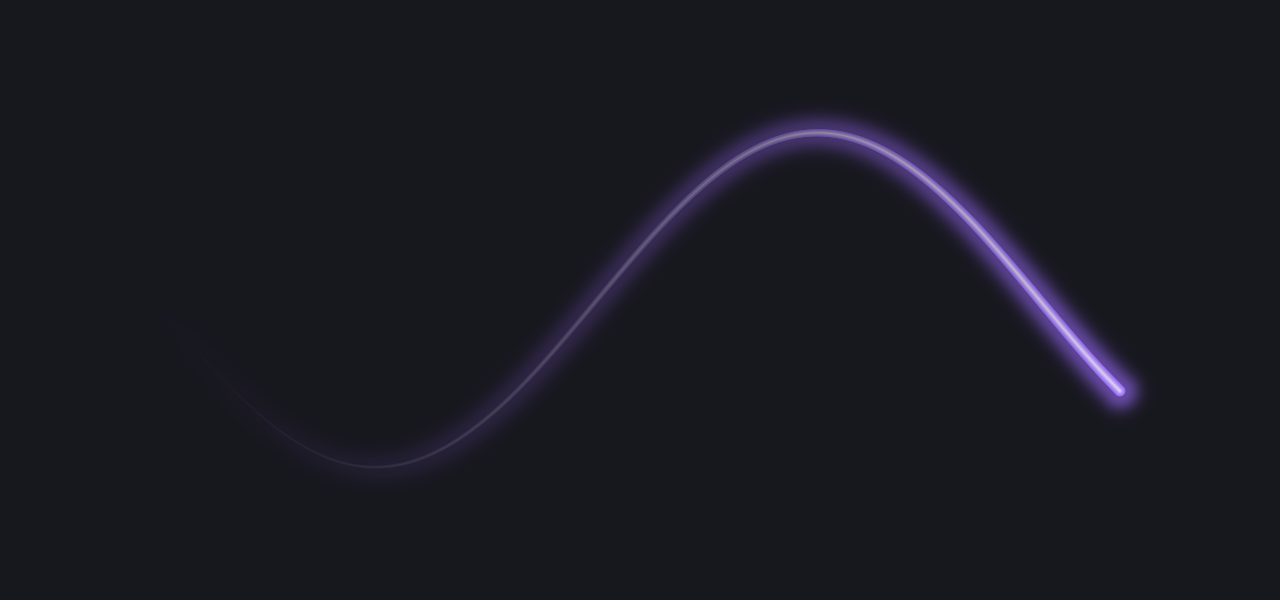
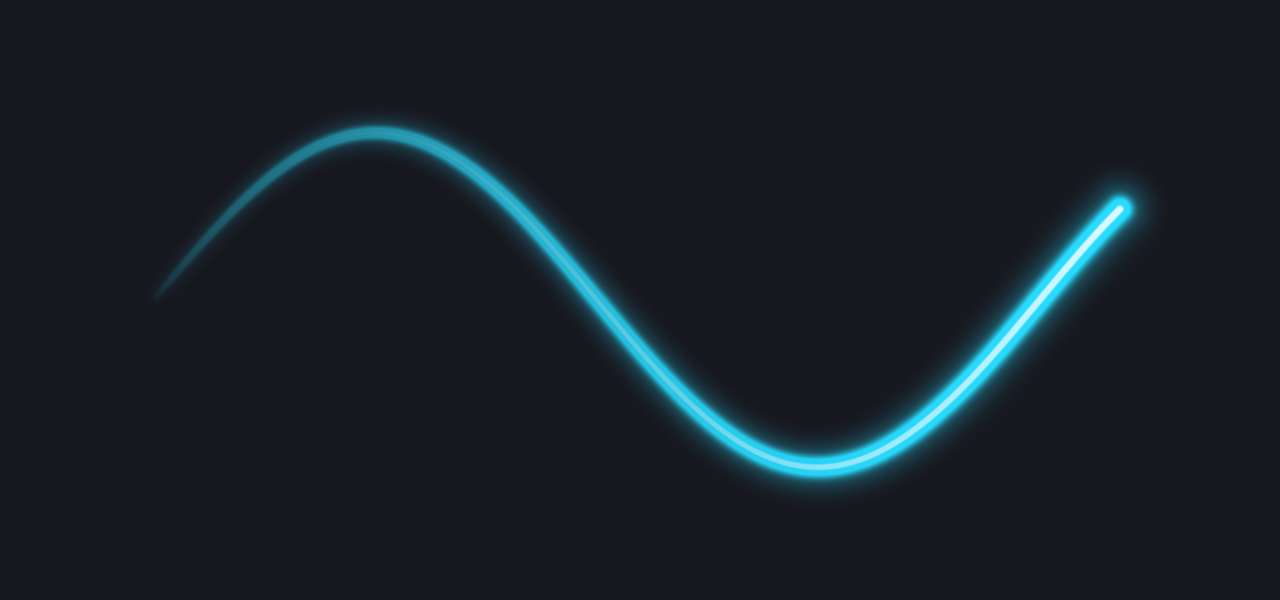
Update docs and snapshot tools for 0.2
Snapshot mode can now render the preset sheet and the settings layout,
and no longer flips images vertically. README covers the new controls.

Changed region(s): [[0.125, 0.18, 0.9062, 0.84], [0.2812, 0.75, 0.3438, 0.78]]

diff --git a/Contrail/Rendering/SnapshotRenderer.swift b/Contrail/Rendering/SnapshotRenderer.swift
@@ -1,15 +1,25 @@
 import AppKit
 import ContrailCore
+import SwiftUI
 
 /// Renders a synthetic trail to a PNG without touching the real cursor.
 ///
 ///     Contrail.app/Contents/MacOS/Contrail --snapshot out.png [--preset cyan] [--matte] [--background light|dark]
+///     Contrail.app/Contents/MacOS/Contrail --snapshot-presets out.png
+///     Contrail.app/Contents/MacOS/Contrail --snapshot-ui out.png
 ///
 /// Used to produce README images and to eyeball shader changes.
 @MainActor
 enum SnapshotRenderer {
-    static func runIfRequested() {
+    static func runIfRequested(store: SettingsStore) {
         let args = CommandLine.arguments
+        if let index = args.firstIndex(of: "--snapshot-ui"), index + 1 < args.count {
+            let ok = renderUI(store: store, to: URL(fileURLWithPath: args[index + 1]))
+            exit(ok ? 0 : 1)
+        }
+        if let index = args.firstIndex(of: "--snapshot-presets"), index + 1 < args.count {
+            exit(renderPresetSheet(to: URL(fileURLWithPath: args[index + 1])) ? 0 : 1)
+        }
         guard let index = args.firstIndex(of: "--snapshot"), index + 1 < args.count else { return }
         let output = URL(fileURLWithPath: args[index + 1])
         var settings = TrailSettings.default
@@ -19,6 +29,46 @@ enum SnapshotRenderer {
             ?? (settings.highContrast ? "light" : "dark")
         let ok = render(settings: settings.clamped(), background: background, to: output)
         exit(ok ? 0 : 1)
+    }
+
+    /// Writes the popover and Settings window layouts side by side (the live
+    /// Metal preview isn't captured). For checking layout without a screenshot.
+    static func renderUI(store: SettingsStore, to url: URL) -> Bool {
+        let glyphs = HStack(spacing: 0) {
+            ForEach([false, true], id: \.self) { dark in
+                HStack(spacing: 18) {
+                    ForEach([true, false], id: \.self) { enabled in
+                        Image(nsImage: MenuBarIcon.image(enabled: enabled))
+                            .resizable()
+                            .interpolation(.high)
+                            .frame(width: 72, height: 72)
+                            .foregroundStyle(dark ? Color.white : Color.black)
+                    }
+                }
+                .padding(12)
+                .background(dark ? Color(white: 0.15) : Color(white: 0.92))
+            }
+        }
+        let content = HStack(alignment: .top, spacing: 24) {
+            VStack(alignment: .leading, spacing: 24) {
+                MenuPopover(store: store, openSettings: {})
+                    .background(Color(nsColor: .windowBackgroundColor))
+                glyphs
+            }
+            SettingsView(store: store)
+                .background(Color(nsColor: .windowBackgroundColor))
+        }
+        .padding(24)
+        .background(Color.gray.opacity(0.3))
+        let hosting = NSHostingView(rootView: content)
+        hosting.frame = NSRect(origin: .zero, size: hosting.fittingSize)
+        let window = NSWindow(contentRect: hosting.frame, styleMask: [.borderless], backing: .buffered, defer: false)
+        window.contentView = hosting
+        hosting.layoutSubtreeIfNeeded()
+        guard let rep = hosting.bitmapImageRepForCachingDisplay(in: hosting.bounds) else { return false }
+        hosting.cacheDisplay(in: hosting.bounds, to: rep)
+        guard let data = rep.representation(using: .png, properties: [:]) else { return false }
+        return (try? data.write(to: url)) != nil
     }
 
     /// A smooth S-curve sampled the way the engine would see a fast mouse flick.
@@ -37,37 +87,73 @@ enum SnapshotRenderer {
     }
 
     static func render(settings: TrailSettings, background: String, to url: URL) -> Bool {
-        guard let renderer = TrailRenderer.shared else { return false }
-        let size = CGSize(width: 640, height: 300)
+        guard let image = renderImage(settings: settings, background: background, size: CGSize(width: 640, height: 300)) else { return false }
+        return write(image, to: url)
+    }
+
+    /// All nine presets in a 3×3 grid on a dark background.
+    static func renderPresetSheet(to url: URL) -> Bool {
+        let cell = CGSize(width: 300, height: 130)
+        let scale = 2
+        let columns = 3
+        let rows = (ColorPreset.all.count + columns - 1) / columns
+        let width = Int(cell.width) * columns * scale
+        let height = Int(cell.height) * rows * scale
+        guard let canvas = makeContext(width: width, height: height) else { return false }
+        canvas.setFillColor(darkBackground)
+        canvas.fill(CGRect(x: 0, y: 0, width: width, height: height))
+        for (index, preset) in ColorPreset.all.enumerated() {
+            var settings = TrailSettings.default
+            settings.presetID = preset.id
+            guard let image = renderImage(settings: settings, background: nil, size: cell) else { return false }
+            let column = index % columns
+            let row = rows - 1 - index / columns
+            canvas.draw(image, in: CGRect(x: column * image.width, y: row * image.height, width: image.width, height: image.height))
+        }
+        guard let image = canvas.makeImage() else { return false }
+        return write(image, to: url)
+    }
+
+    private static let darkBackground = CGColor(red: 0.07, green: 0.07, blue: 0.09, alpha: 1)
+
+    private static func makeContext(width: Int, height: Int) -> CGContext? {
+        CGContext(data: nil, width: width, height: height, bitsPerComponent: 8, bytesPerRow: 0,
+                  space: CGColorSpace(name: CGColorSpace.sRGB)!,
+                  bitmapInfo: CGBitmapInfo.byteOrder32Little.rawValue | CGImageAlphaInfo.premultipliedFirst.rawValue)
+    }
+
+    /// Renders the sample trail at 2×. `background` is "light", "dark", or nil
+    /// for a transparent image.
+    static func renderImage(settings: TrailSettings, background: String?, size: CGSize) -> CGImage? {
+        guard let renderer = TrailRenderer.shared else { return nil }
         let scale: CGFloat = 2
         let segments = sampleTrail(size: size, settings: settings)
         let uniforms = TrailUniforms(viewSize: size, origin: .zero, scale: scale, settings: settings)
         guard let texture = renderer.renderOffscreen(
             segments, uniforms: uniforms, width: Int(size.width * scale), height: Int(size.height * scale)
-        ) else { return false }
+        ) else { return nil }
 
         let width = texture.width, height = texture.height
         var pixels = [UInt8](repeating: 0, count: width * height * 4)
         texture.getBytes(&pixels, bytesPerRow: width * 4, from: MTLRegionMake2D(0, 0, width, height), mipmapLevel: 0)
 
+        // Texture row 0 is the top row, which is also how CGImage stores rows.
         let colorSpace = CGColorSpace(name: CGColorSpace.sRGB)!
         let info = CGBitmapInfo.byteOrder32Little.rawValue | CGImageAlphaInfo.premultipliedFirst.rawValue
         guard let trail = CGContext(data: &pixels, width: width, height: height, bitsPerComponent: 8,
                                     bytesPerRow: width * 4, space: colorSpace, bitmapInfo: info)?.makeImage(),
-              let canvas = CGContext(data: nil, width: width, height: height, bitsPerComponent: 8,
-                                     bytesPerRow: 0, space: colorSpace, bitmapInfo: info) else { return false }
-        let bg = background == "light" ? CGColor(red: 1, green: 1, blue: 1, alpha: 1)
-                                       : CGColor(red: 0.07, green: 0.07, blue: 0.09, alpha: 1)
-        canvas.setFillColor(bg)
-        canvas.fill(CGRect(x: 0, y: 0, width: width, height: height))
-        // Metal textures are top-left origin; flip into CoreGraphics space.
-        canvas.translateBy(x: 0, y: CGFloat(height))
-        canvas.scaleBy(x: 1, y: -1)
+              let canvas = makeContext(width: width, height: height) else { return nil }
+        if let background {
+            canvas.setFillColor(background == "light" ? CGColor(red: 1, green: 1, blue: 1, alpha: 1) : darkBackground)
+            canvas.fill(CGRect(x: 0, y: 0, width: width, height: height))
+        }
         canvas.draw(trail, in: CGRect(x: 0, y: 0, width: width, height: height))
-        guard let image = canvas.makeImage() else { return false }
+        return canvas.makeImage()
+    }
+
+    private static func write(_ image: CGImage, to url: URL) -> Bool {
         let rep = NSBitmapImageRep(cgImage: image)
         guard let data = rep.representation(using: .png, properties: [:]) else { return false }
-        do { try data.write(to: url) } catch { return false }
-        return true
+        return (try? data.write(to: url)) != nil
     }
 }

diff --git a/README.md b/README.md
@@ -6,6 +6,8 @@ Contrail draws a smooth, tapered neon trail behind the mouse pointer across ever
 
 ![Contrail trail](docs/trail.png)
 
+![The nine color presets](docs/presets.png)
+
 ## Install
 
 1. Download the latest `Contrail-x.y.z.dmg` from [Releases](https://github.com/Kiril-P/contrail/releases) and drag **Contrail** into **Applications**.
@@ -18,7 +20,17 @@ Requires macOS 13 Ventura or later, on Apple silicon or Intel.
 
 ## Use
 
-Click the Contrail icon in the menu bar to turn the trail on or off, or quit.
+Click the Contrail icon in the menu bar. The popover has everything you need during a demo:
+
+- **On/off switch**
+- **Live preview**, drawn by the same renderer as the real trail
+- **Nine colors**: Cyan, Violet, Magenta, Coral, Amber, Lime, Ice, and the Sunset and Aurora gradients
+- **Width**, **Length** (how many seconds of motion the trail shows) and **Glow**
+- **High contrast**: a solid, outlined trail that stays readable on white documents and web pages
+
+![High contrast mode on a white background](docs/high-contrast.png)
+
+**Settings…** (⌘,) adds Taper, Opacity, Follow (how tightly the trail tracks the pointer), Hold (keep the trail in place briefly after the pointer stops), and Open at login. Settings are saved automatically.
 
 ## Build from source
 
@@ -45,17 +57,25 @@ scripts/build-release.sh                   # universal, ad-hoc signed .zip and .
 | Geometry: centripetal Catmull–Rom spline → tapered capsules | `Packages/ContrailCore/Sources/ContrailCore/TrailGeometry.swift` |
 | Rendering: one instanced Metal draw per screen; the fragment shader computes the core, anti-aliasing and glow from the exact distance to each capsule | `Contrail/Rendering/` |
 | Overlays: one click-through panel per screen, above full-screen apps, visible in screen recordings | `Contrail/Overlay/` |
+| Menu-bar popover, Settings window, live preview | `Contrail/UI/` |
 
 The trail samples `NSEvent.mouseLocation` once per display refresh. When the trail has faded, every display link pauses and only a mouse-moved monitor stays alive, so an idle cursor costs nothing.
 
 The Metal shader is compiled at runtime from source, so you don't need Xcode's optional Metal toolchain download.
 
+The app can also render the trail to a PNG without touching the cursor, which is handy for reviewing shader changes:
+
+```sh
+Contrail.app/Contents/MacOS/Contrail --snapshot out.png --preset sunset [--matte]
+Contrail.app/Contents/MacOS/Contrail --snapshot-presets presets.png
+```
+
 ## Roadmap
 
 - [x] **0.1**: menu-bar app and glowing trail on every screen
-- [ ] **0.2**: customization (width, length, glow, taper, follow speed, linger), nine color presets, high-contrast matte mode for white backgrounds
+- [x] **0.2**: customization (width, length, glow, taper, opacity, follow, hold), nine color presets, high-contrast mode for white backgrounds, live preview
 - [ ] Letter gestures: draw a letter with the cursor to open apps, run Shortcuts, press keys, and more
-- [ ] Sparks, auto-updates, Homebrew cask
+- [ ] Toggle shortcut, sparks, auto-updates, Homebrew cask
 
 ## Contributing
 

diff --git a/CONTRIBUTING.md b/CONTRIBUTING.md
@@ -18,7 +18,7 @@ Logic that doesn't need AppKit (trail model, geometry, settings) belongs in `Pac
 - The trail must keep needing **no permissions**, and must use ~0% CPU when the cursor is still. Check Activity Monitor before and after your change.
 - Keep the Swift 6 strict-concurrency build free of warnings.
 - Settings are stored as versioned JSON (`TrailSettings`). New fields need a default so older settings still load.
-- Rendering changes: run `Contrail.app/Contents/MacOS/Contrail --snapshot out.png [--preset cyan] [--matte]` from a Debug build, and attach before/after images to your pull request.
+- Rendering changes: run `Contrail.app/Contents/MacOS/Contrail --snapshot out.png [--preset cyan] [--matte]` and attach before/after images to your pull request.
 - Keep pull requests small and focused, and explain the problem they solve.
 
 By contributing, you agree that your contributions are licensed under the GPL-3.0.
